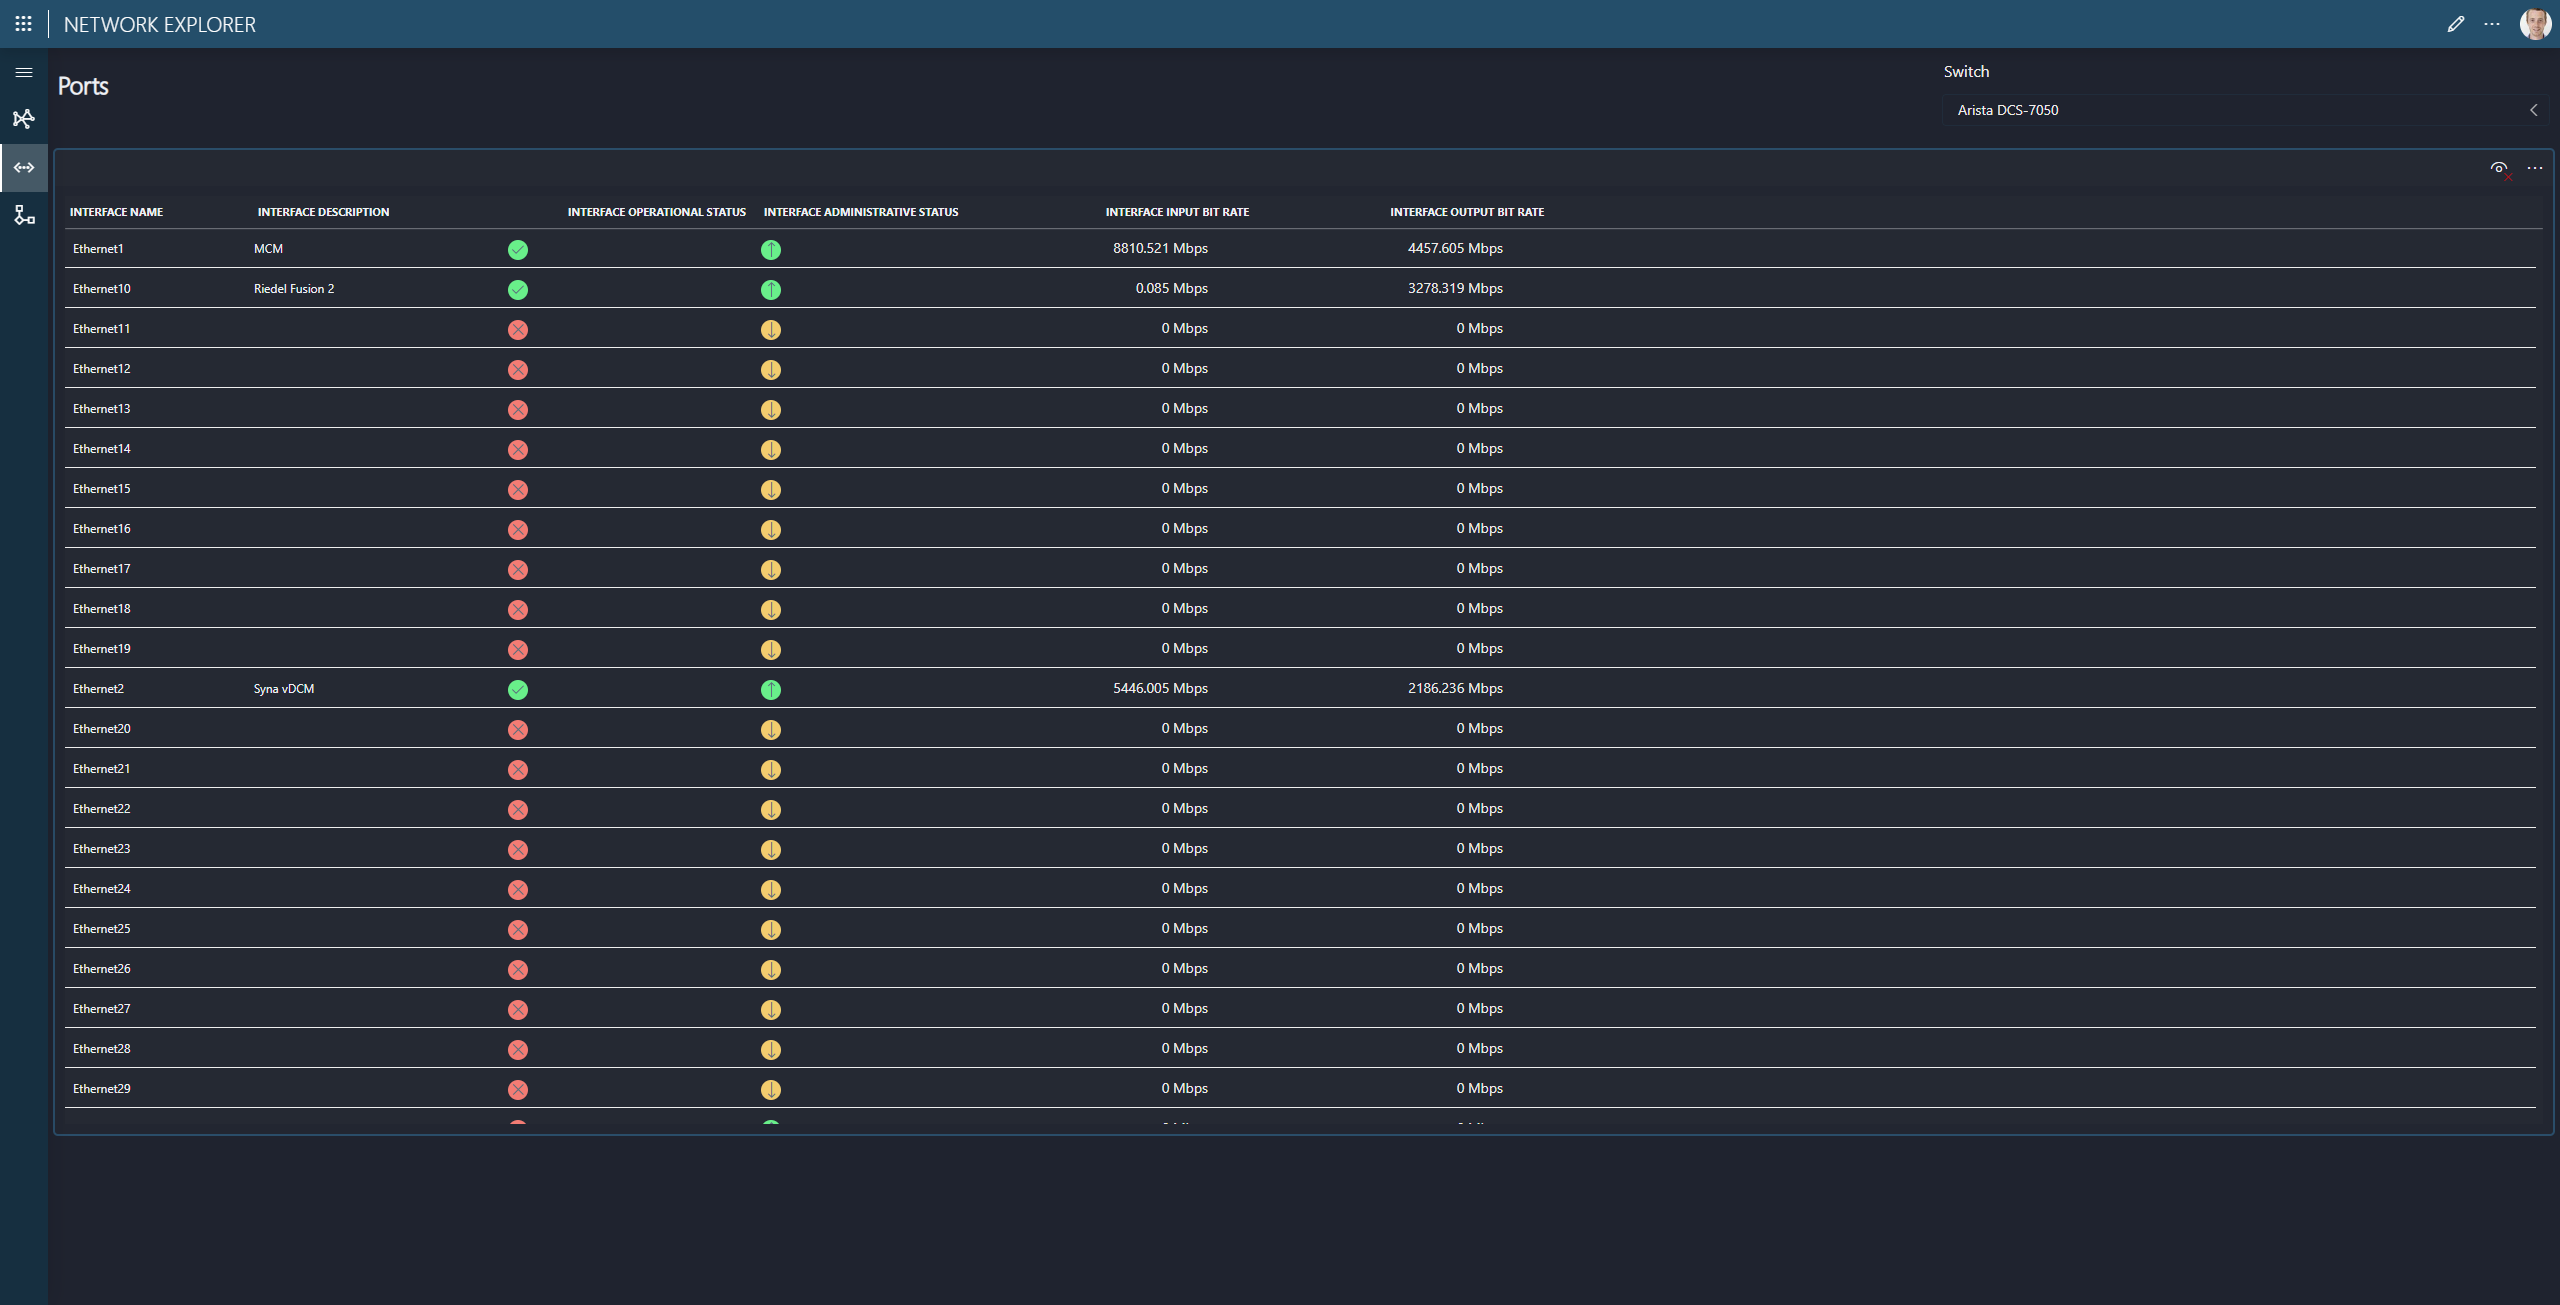
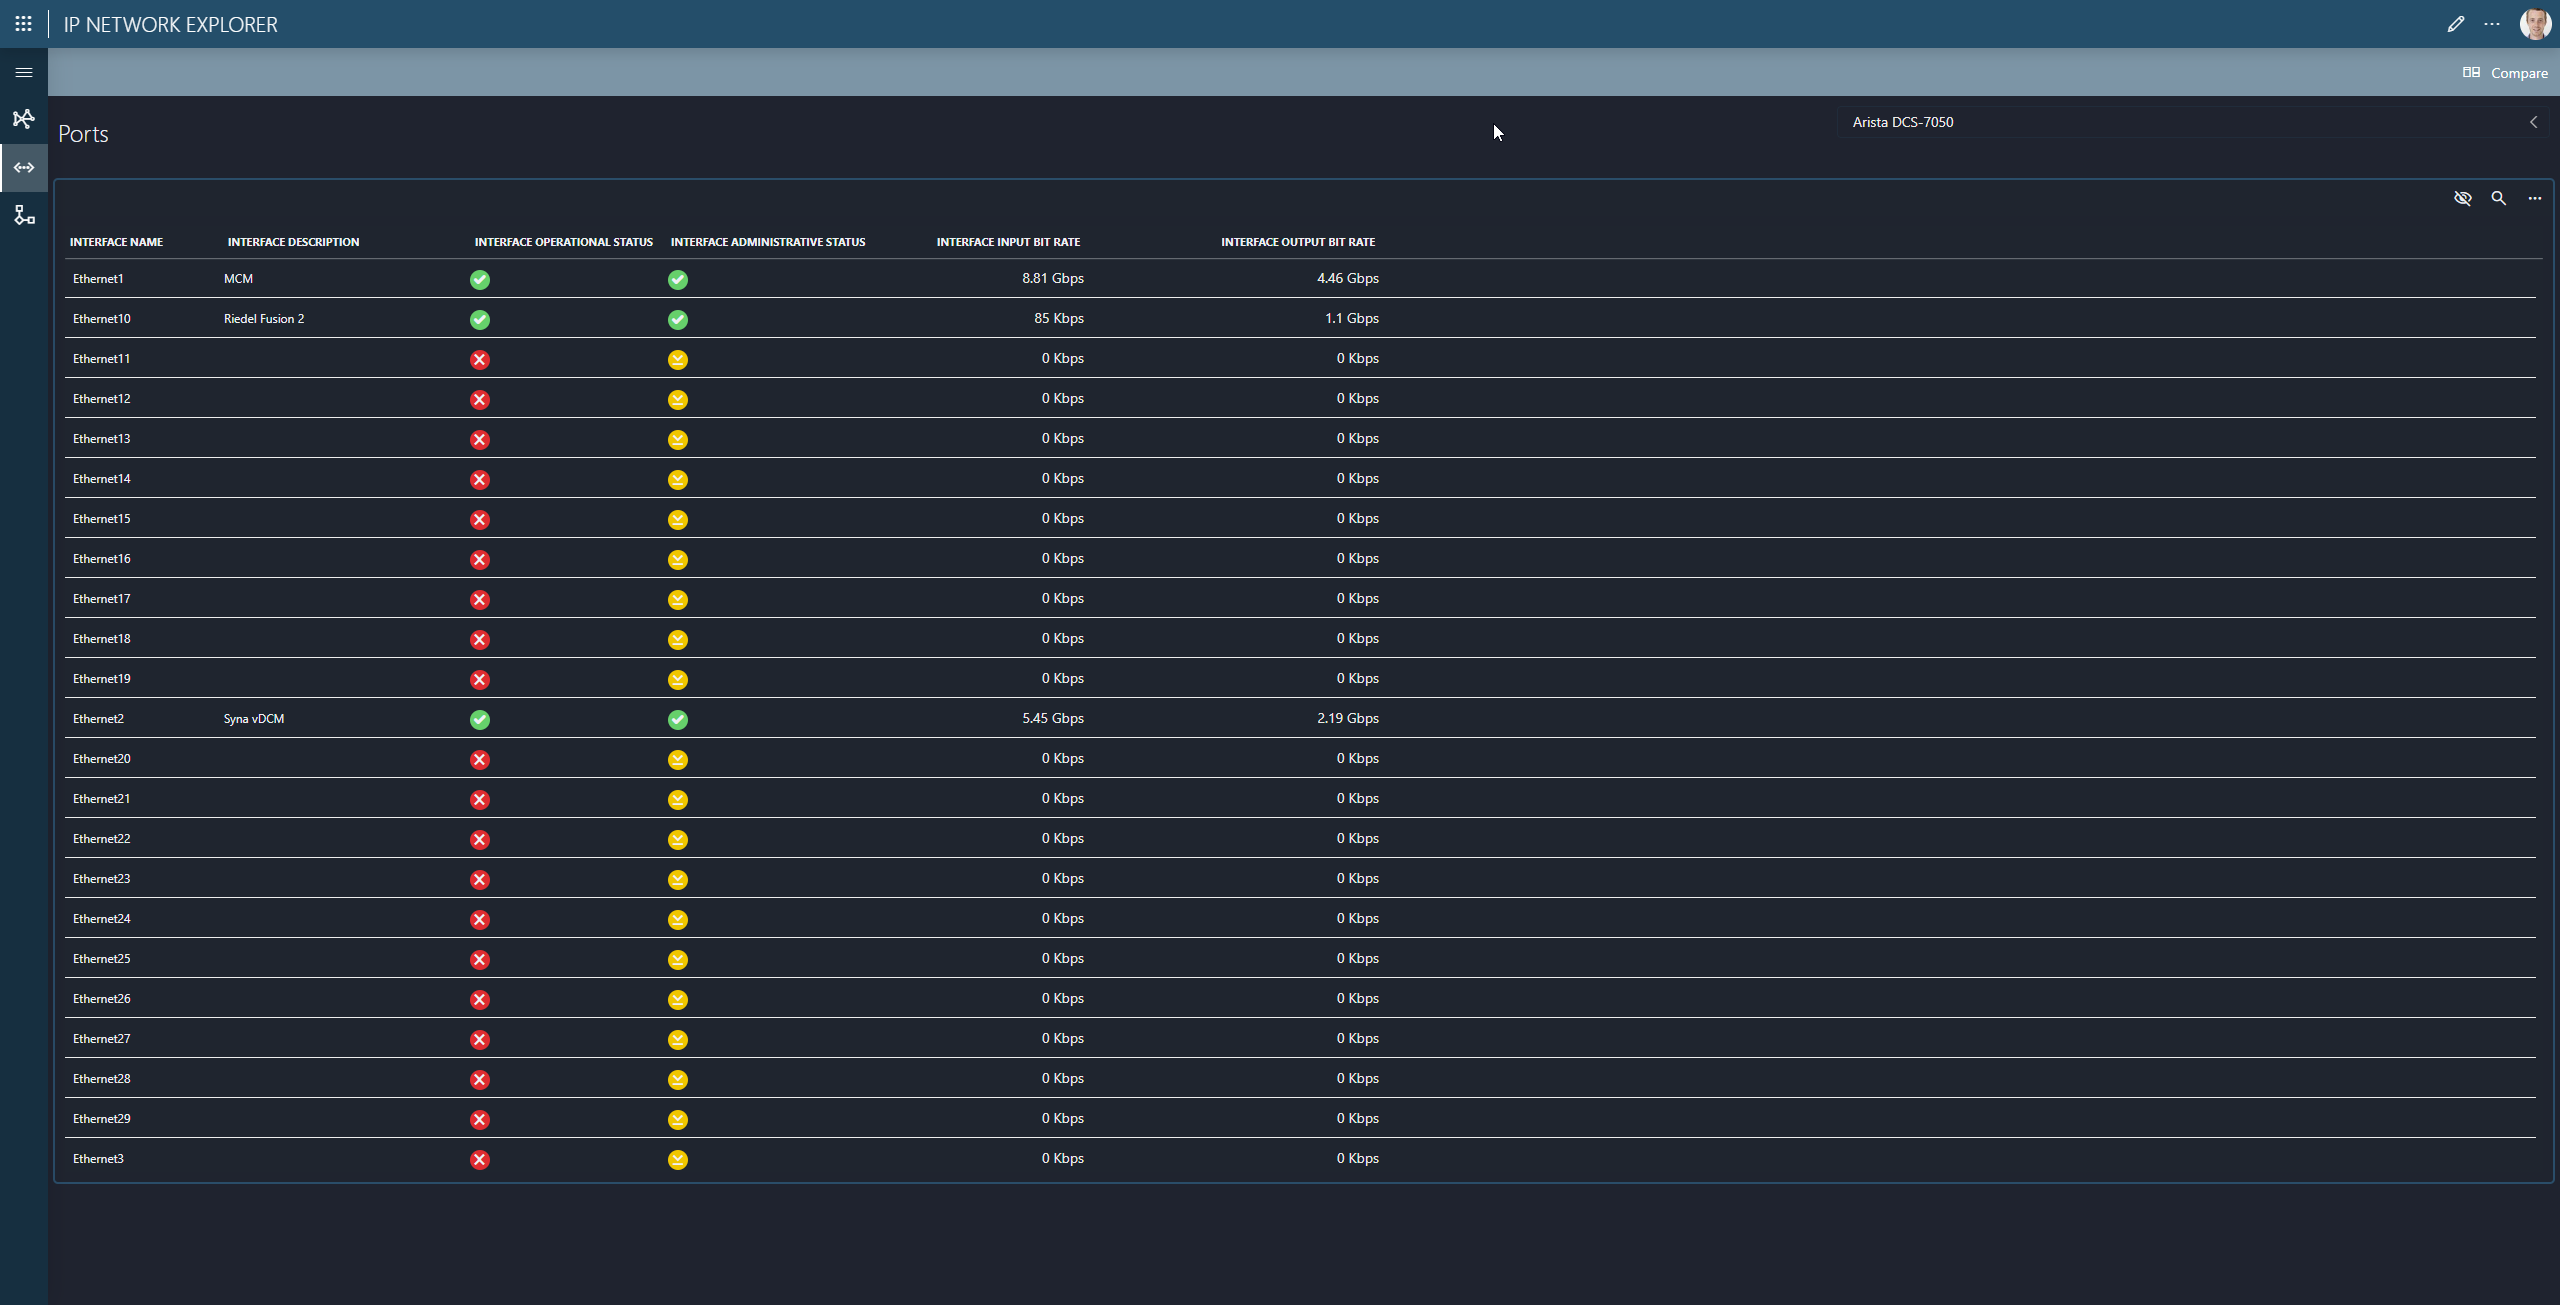
Updated to documentation with the info for version 0.1.4

diff --git a/solutions/standard_solutions/IP_Network_Explorer/NetworkExplorer_UI_overview.md b/solutions/standard_solutions/IP_Network_Explorer/NetworkExplorer_UI_overview.md
@@ -14,6 +14,14 @@ Click any [device](#device-details) or [connection](#connection-details) to view
 
 ![Topology](~/solutions/images/NS_manual_topology.png)
 
+When hovering over a connection, you can use the dot in the upper-right corner of the details window to choose which metric is displayed and used to color the lines.
+
+You can select between interface operational status and interface output utilization.
+
+![Topology connection details](~/solutions/images/NS_manual_topology_hover.png)
+
+![Topology connection analytics](~/solutions/images/NS_manual_topology_analytics.png)
+
 ### Device Details
 
 The **Device Details** page gives an overview of the device's overall health.
@@ -35,6 +43,10 @@ The **Ports** page shows an overview of all ports for the selected network devic
 To switch devices, use the **dropdown box** in the top-right corner.
 
 ![Ports](~/solutions/images/NS_manual_ports.png)
+
+Using the Compare button in the menu bar, you can view the ports of two devices side by side for easier analysis.
+
+![Compare Ports](~/solutions/images/NS_manual_ports_compare.png)
 
 ## Flows
 
